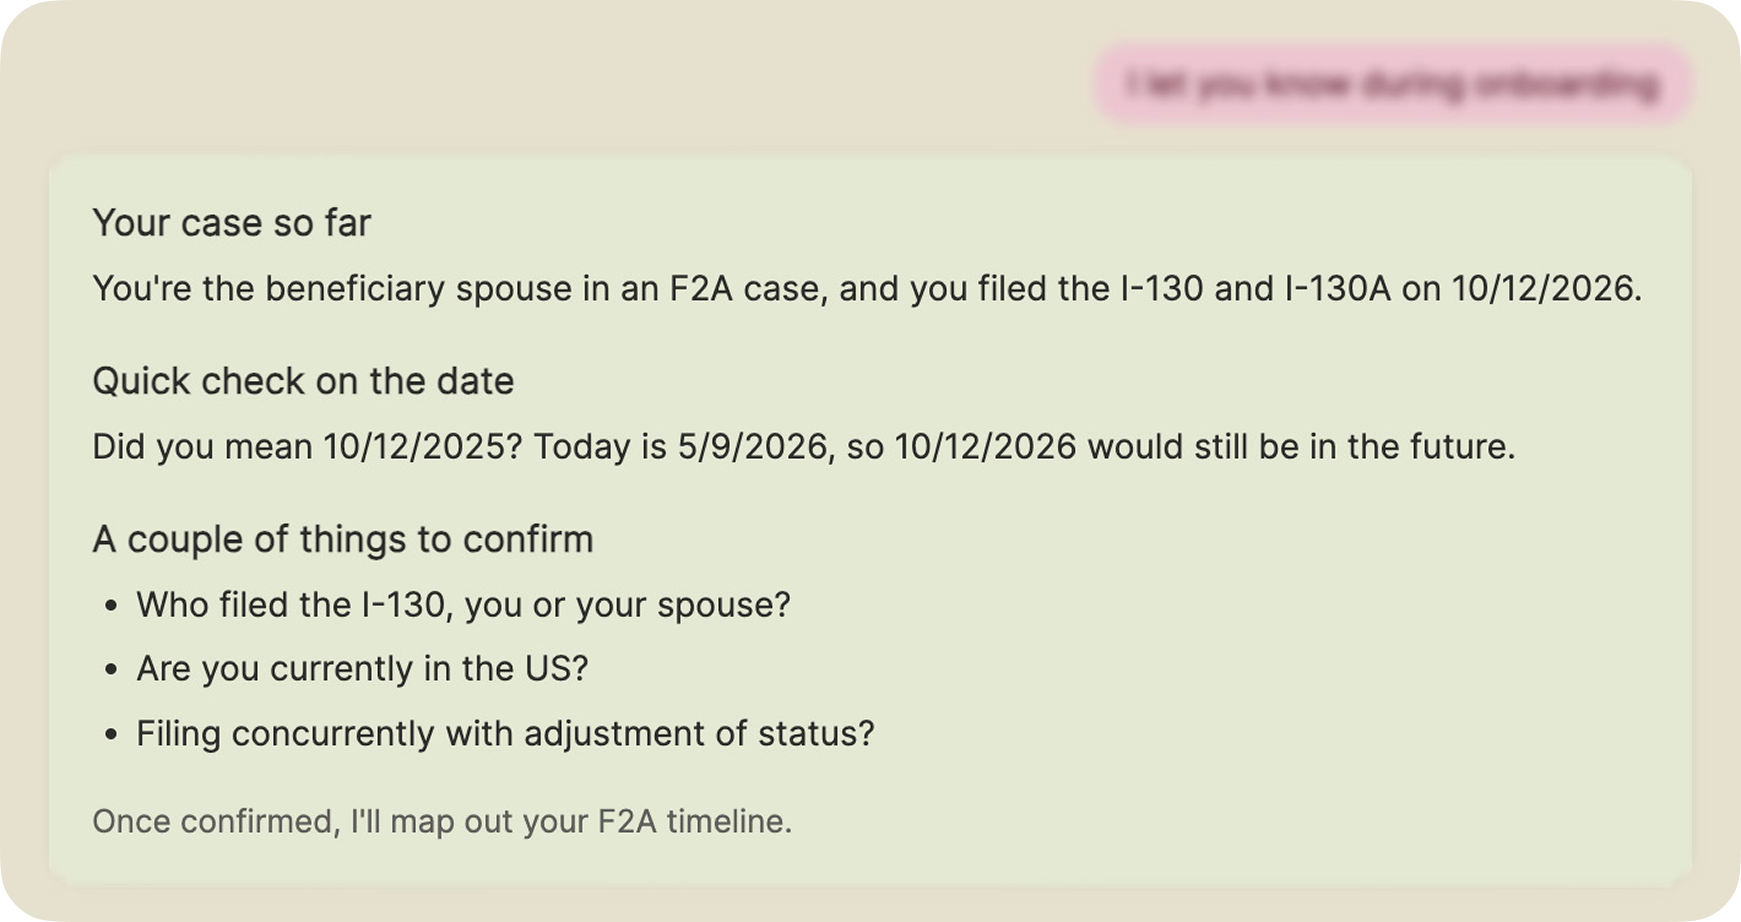
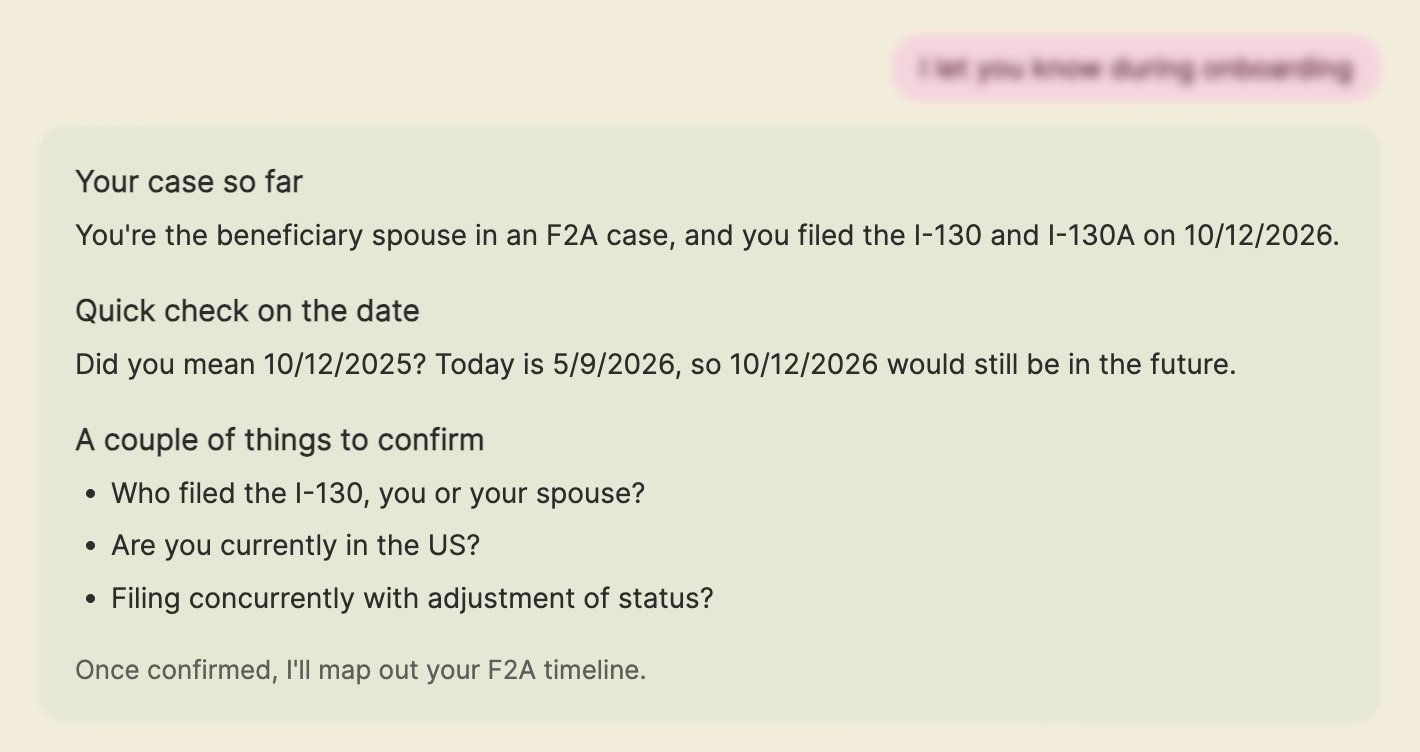
Shrink hover preview to 260px and flip 03 to left side
Reduce exploration card hover image preview from 360px to 260px. Detect when the last card is hovered and flip the preview to the left of the cursor so it doesn't overflow off-screen.

diff --git a/components/ExplorationCards.tsx b/components/ExplorationCards.tsx
@@ -46,6 +46,7 @@ export function ExplorationCards({
 
   const hoveredImage =
     hovered !== null ? options[hovered]?.image : undefined;
+  const isLastCard = hovered === options.length - 1;
 
   return (
     <div ref={ref} className="exploration-cards">
@@ -132,20 +133,22 @@ export function ExplorationCards({
             style={{
               left: pos.x,
               top: pos.y,
-              transform: "translate(16px, calc(-100% - 12px))",
+              transform: isLastCard
+                ? "translate(calc(-100% - 16px), calc(-100% - 12px))"
+                : "translate(16px, calc(-100% - 12px))",
             }}
           >
             <div
               className="overflow-hidden rounded-xl bg-white ring-1 ring-black/10 shadow-[0_1px_0_rgba(0,0,0,0.04),0_24px_48px_-20px_rgba(0,0,0,0.35)]"
-              style={{ width: 360 }}
+              style={{ width: 260 }}
             >
               <Image
                 src={hoveredImage.src}
                 alt={hoveredImage.description}
-                width={360}
+                width={260}
                 height={0}
                 style={{ width: "100%", height: "auto", display: "block" }}
-                sizes="360px"
+                sizes="260px"
               />
             </div>
           </div>
